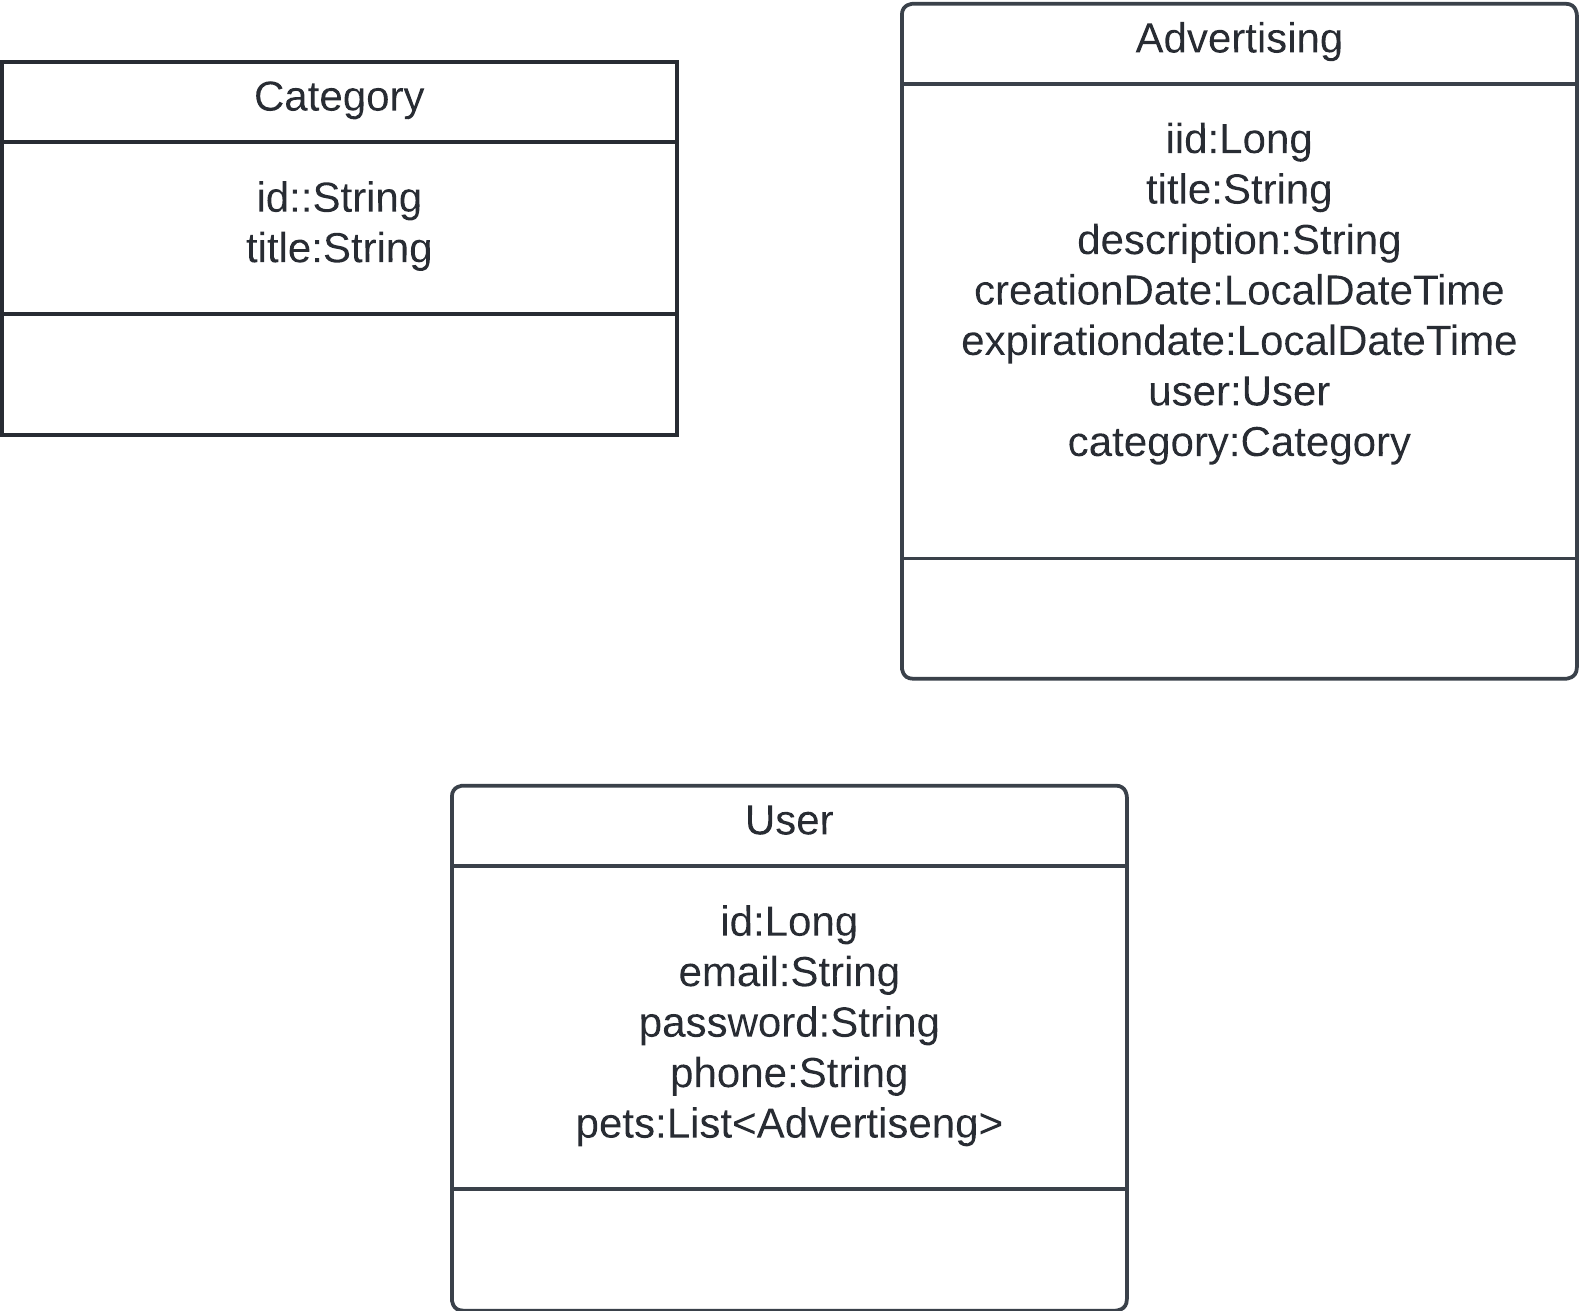
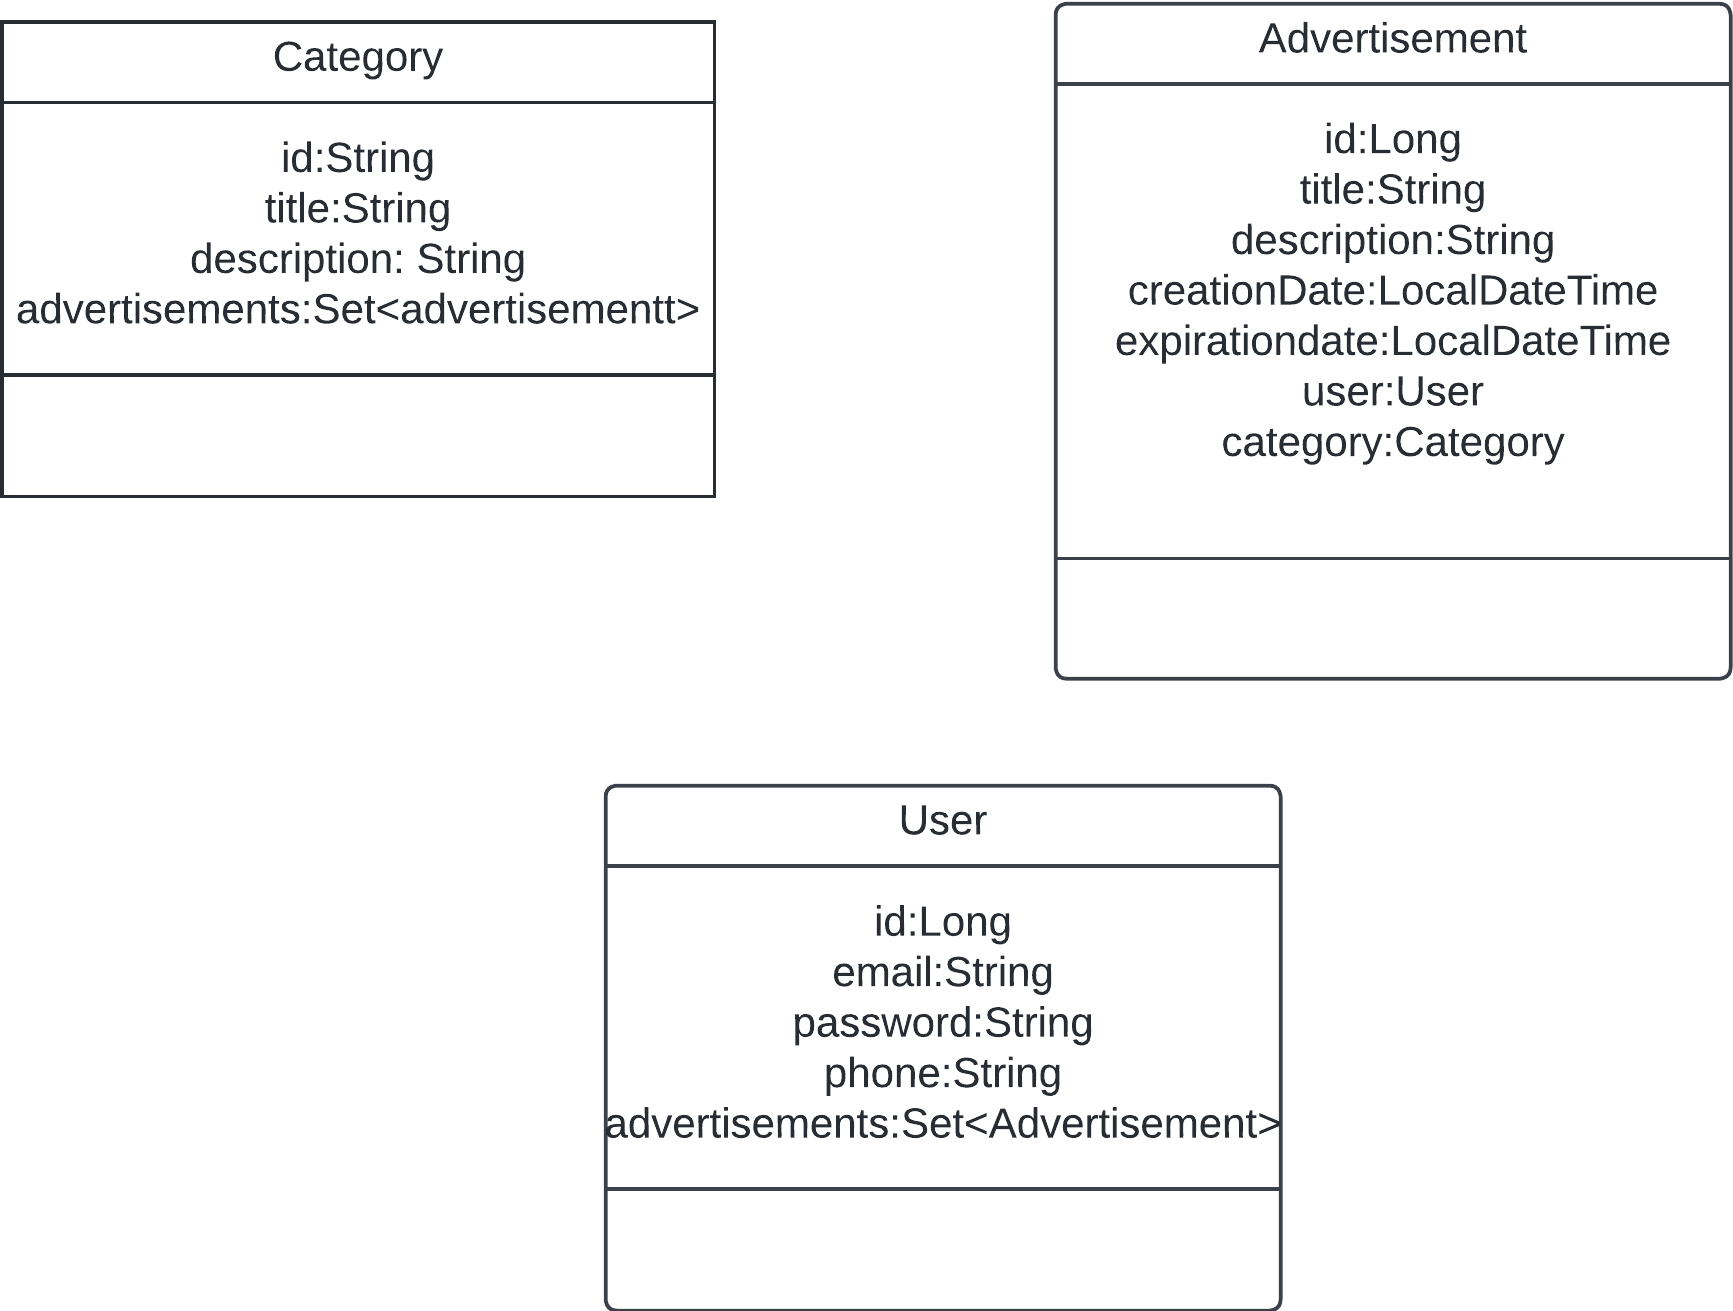
DTO package

diff --git a/src/main/java/se/lexicon/g49marketplace/domain/dto/UserDTO.java b/src/main/java/se/lexicon/g49marketplace/domain/dto/UserDTO.java
@@ -1,4 +1,38 @@
 package se.lexicon.g49marketplace.domain.dto;
 
+import jakarta.validation.constraints.Email;
+import jakarta.validation.constraints.NotBlank;
+import jakarta.validation.constraints.Pattern;
+import jakarta.validation.constraints.Size;
+import lombok.*;
+
+@AllArgsConstructor
+@NoArgsConstructor
+@Getter
+@Setter
+@Builder
+@ToString
+
+
 public class UserDTO {
+
+    @NotBlank(message = "Please, enter your email.")
+    @Email
+    private String email;
+
+    @NotBlank(message = "Please, enter your username.")
+    @Size(min = 5, max = 20)
+    private String username;
+
+    @NotBlank(message = "Please, enter your password.")
+    @Pattern(
+            regexp = "^(?=.*[0-9])(?=.*[a-z])(?=.*[A-Z])(?=.*[@#$%^&+=])(?=\\S+$).{8,}$",
+            message = "Password must be at least 8 characters long and include one uppercase letter, one lowercase letter, one digit, and one special character."
+    )
+    private String password;
+
+    @NotBlank(message = "Please, enter your phone number.")
+    @Pattern(regexp = "^\\+?[1-9]\\d{1,14}$", message = "Invalid phone number")
+    @Size(min = 10, max = 15)
+    private String phoneNumber;
 }

diff --git a/src/main/java/se/lexicon/g49marketplace/domain/dto/AdvertisementDTO.java b/src/main/java/se/lexicon/g49marketplace/domain/dto/AdvertisementDTO.java
@@ -1,4 +1,26 @@
 package se.lexicon.g49marketplace.domain.dto;
 
+import jakarta.validation.constraints.NotBlank;
+import jakarta.validation.constraints.Size;
+import lombok.*;
+
+import java.time.LocalDateTime;
+
+
+@AllArgsConstructor
+@NoArgsConstructor
+@Getter
+@Setter
+@ToString
+@Builder
 public class AdvertisementDTO {
+
+    @NotBlank(message = "This field should not be null.")
+    @Size(min = 5, max = 100)
+    private String title;
+    @NotBlank(message = "This field should not be null.")
+    private String description;
+
+    private LocalDateTime creationDate;
+    private LocalDateTime expirationDate;
 }

diff --git a/src/main/java/se/lexicon/g49marketplace/domain/dto/CategoryDTO.java b/src/main/java/se/lexicon/g49marketplace/domain/dto/CategoryDTO.java
@@ -1,4 +1,19 @@
 package se.lexicon.g49marketplace.domain.dto;
 
+import jakarta.validation.constraints.NotBlank;
+import lombok.*;
+
+@AllArgsConstructor
+@NoArgsConstructor
+@Getter
+@Setter
+@ToString
+@Builder
 public class CategoryDTO {
+
+    @NotBlank(message = "This field cannot be null.")
+    private String title;
+
+    @NotBlank(message = "This field cannot be null.")
+    private String description;
 }

diff --git a/src/main/java/se/lexicon/g49marketplace/domain/entity/Advertisement.java b/src/main/java/se/lexicon/g49marketplace/domain/entity/Advertisement.java
@@ -25,6 +25,7 @@ public class Advertisement {
 
     @Column(nullable = false)
     private String title;
+
     @Lob
     @Column(nullable = false)
     private String description;
